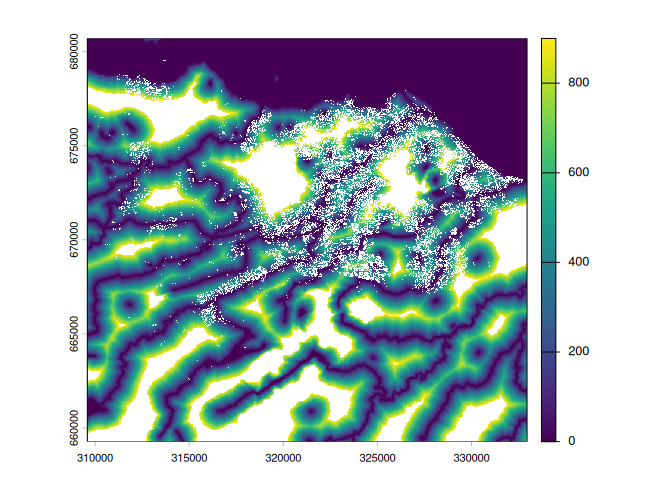
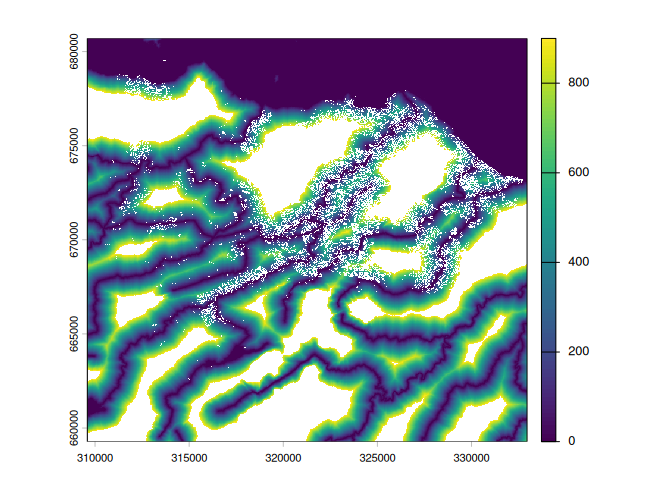
initial tidying

diff --git a/README.md b/README.md
@@ -24,9 +24,13 @@ remotes::install_github("chrislittleboy/travelgrid")
 
 ## Input data
 
-Here, we load road and building footprint data for Edinburgh, downloaded
-directly from Open Street Maps. We also require a Digital Elevation
-Model, which can be downloaded using the *elevatr* package.
+Users can download and use data from anywhere in the world. Throughout
+this explainer we illustrate the method with data specific to Edinburgh
+in Scotland.
+
+Road and building footprint data for Edinburgh downloaded directly from
+Open Street Maps. We also require a Digital Elevation Model, which can
+be downloaded using the *elevatr* package.
 
 ``` r
 library(travelgrid)
